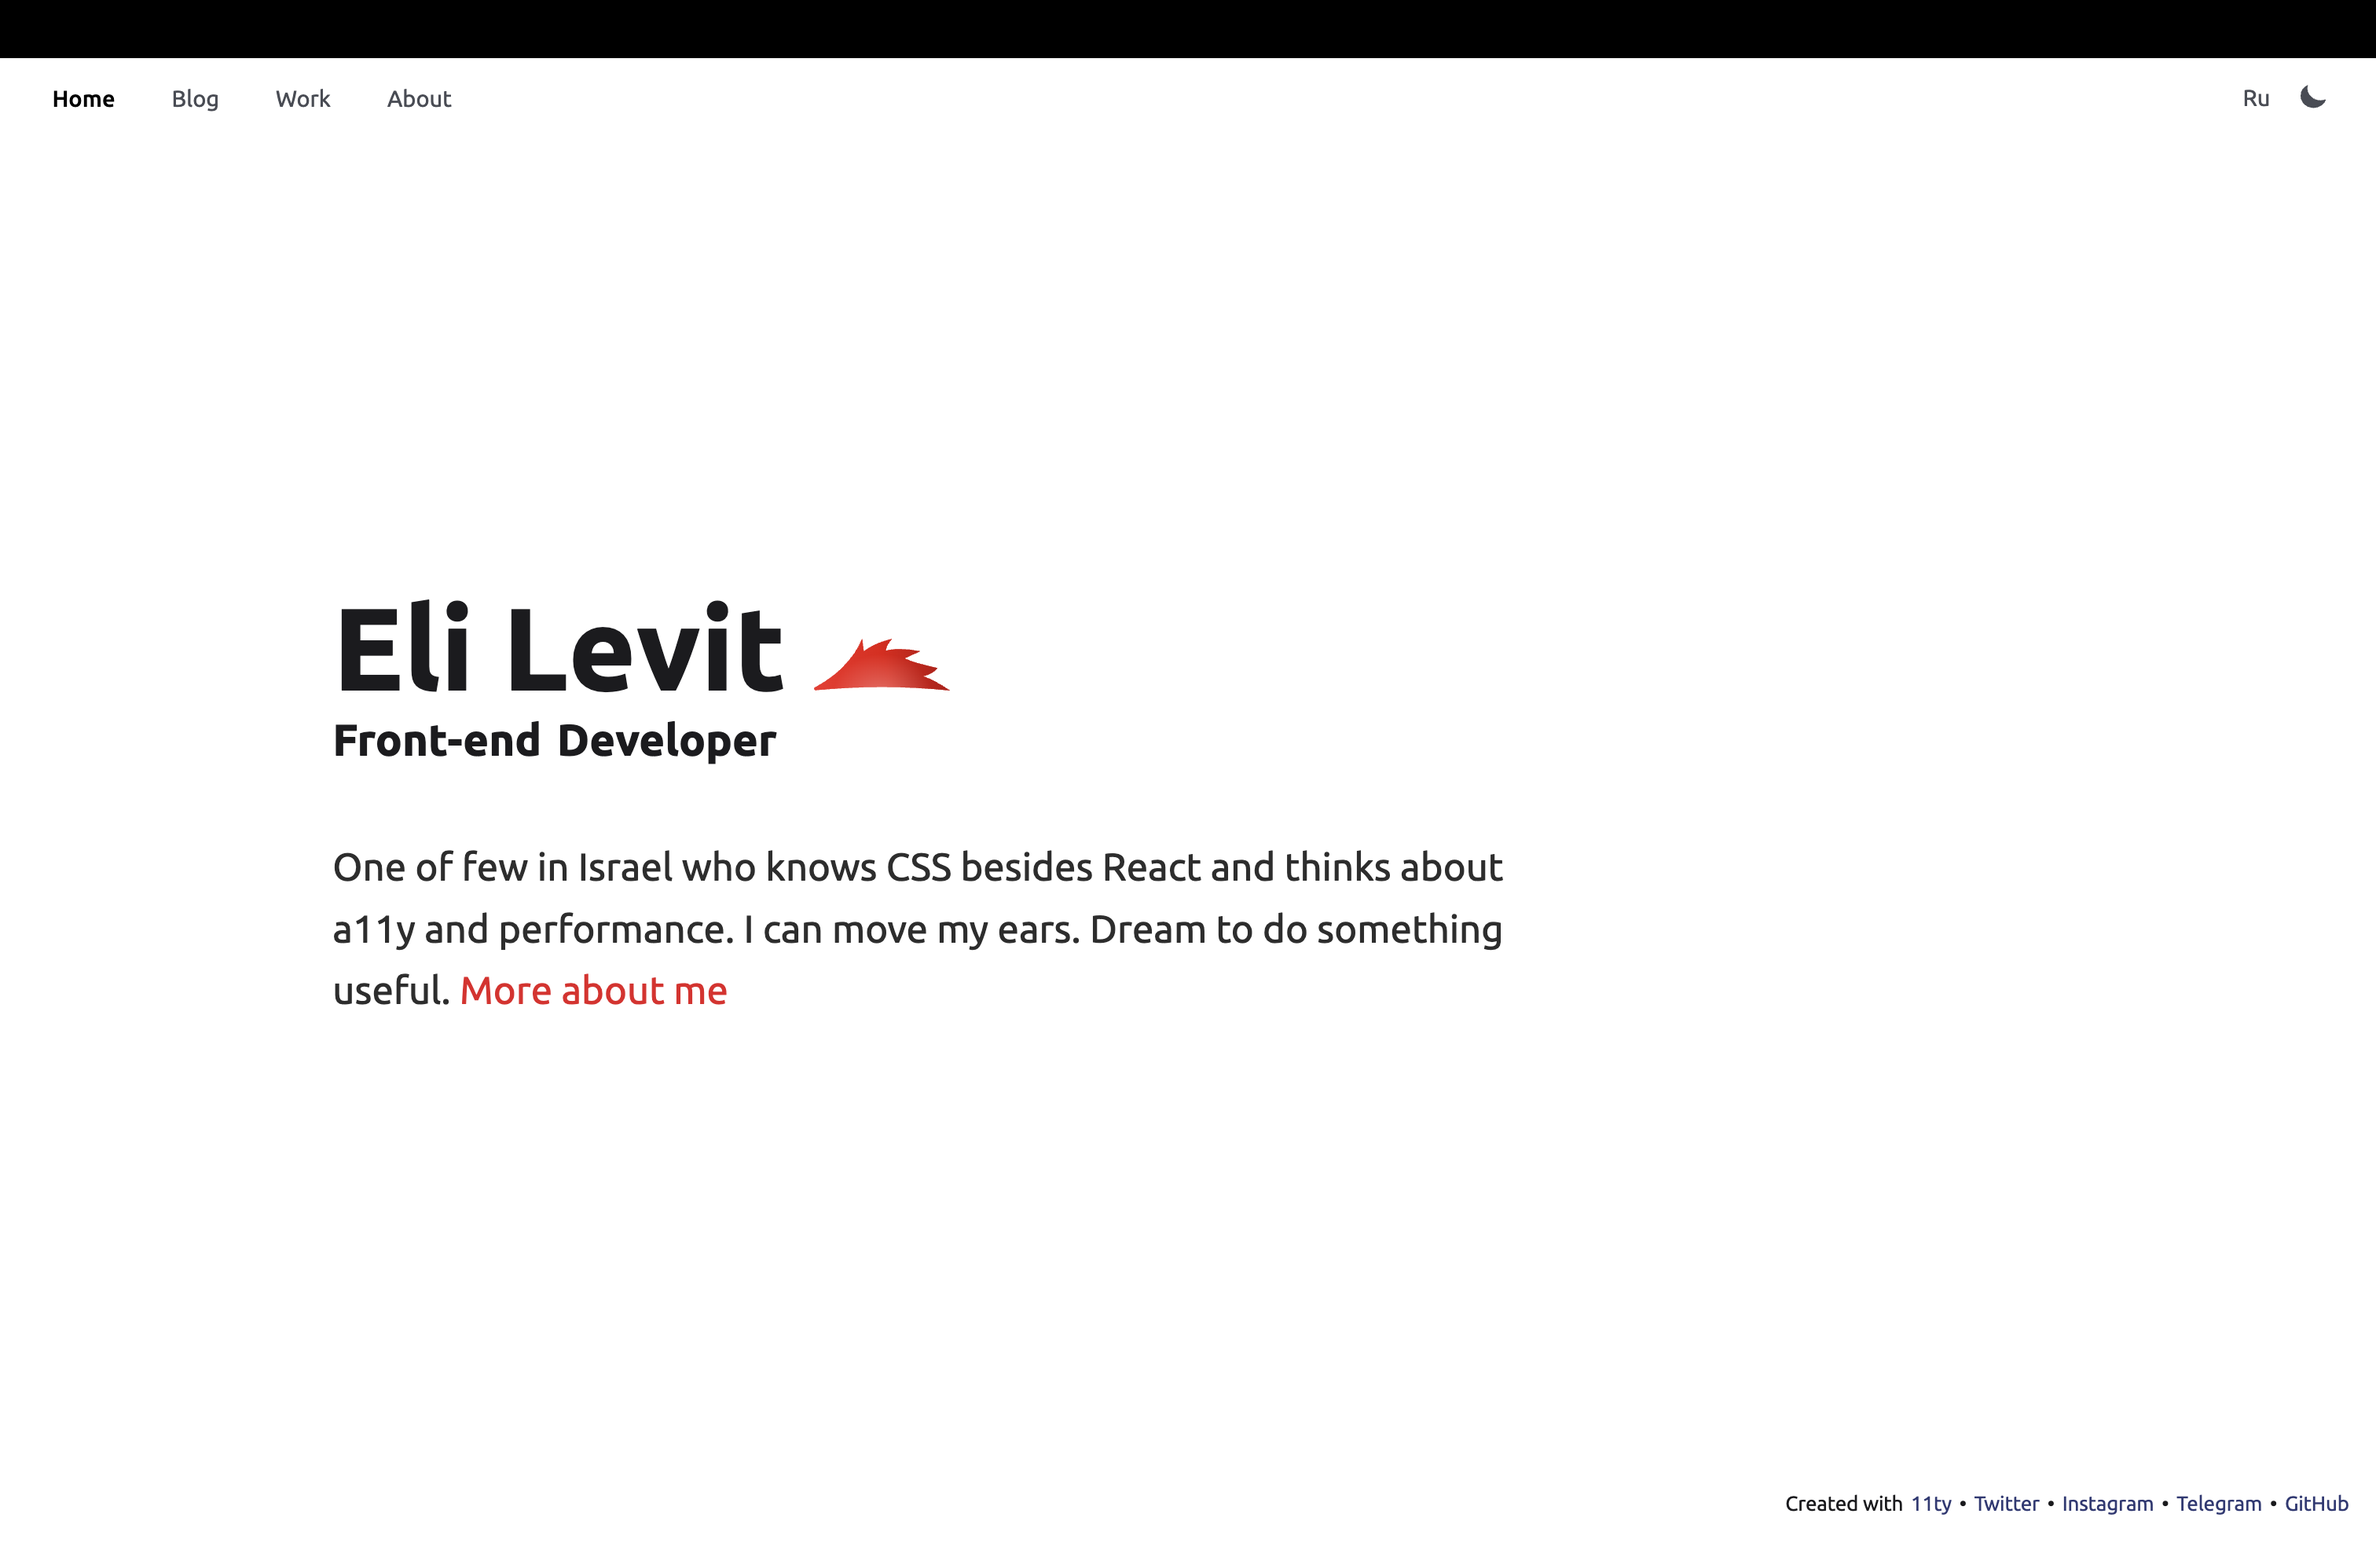
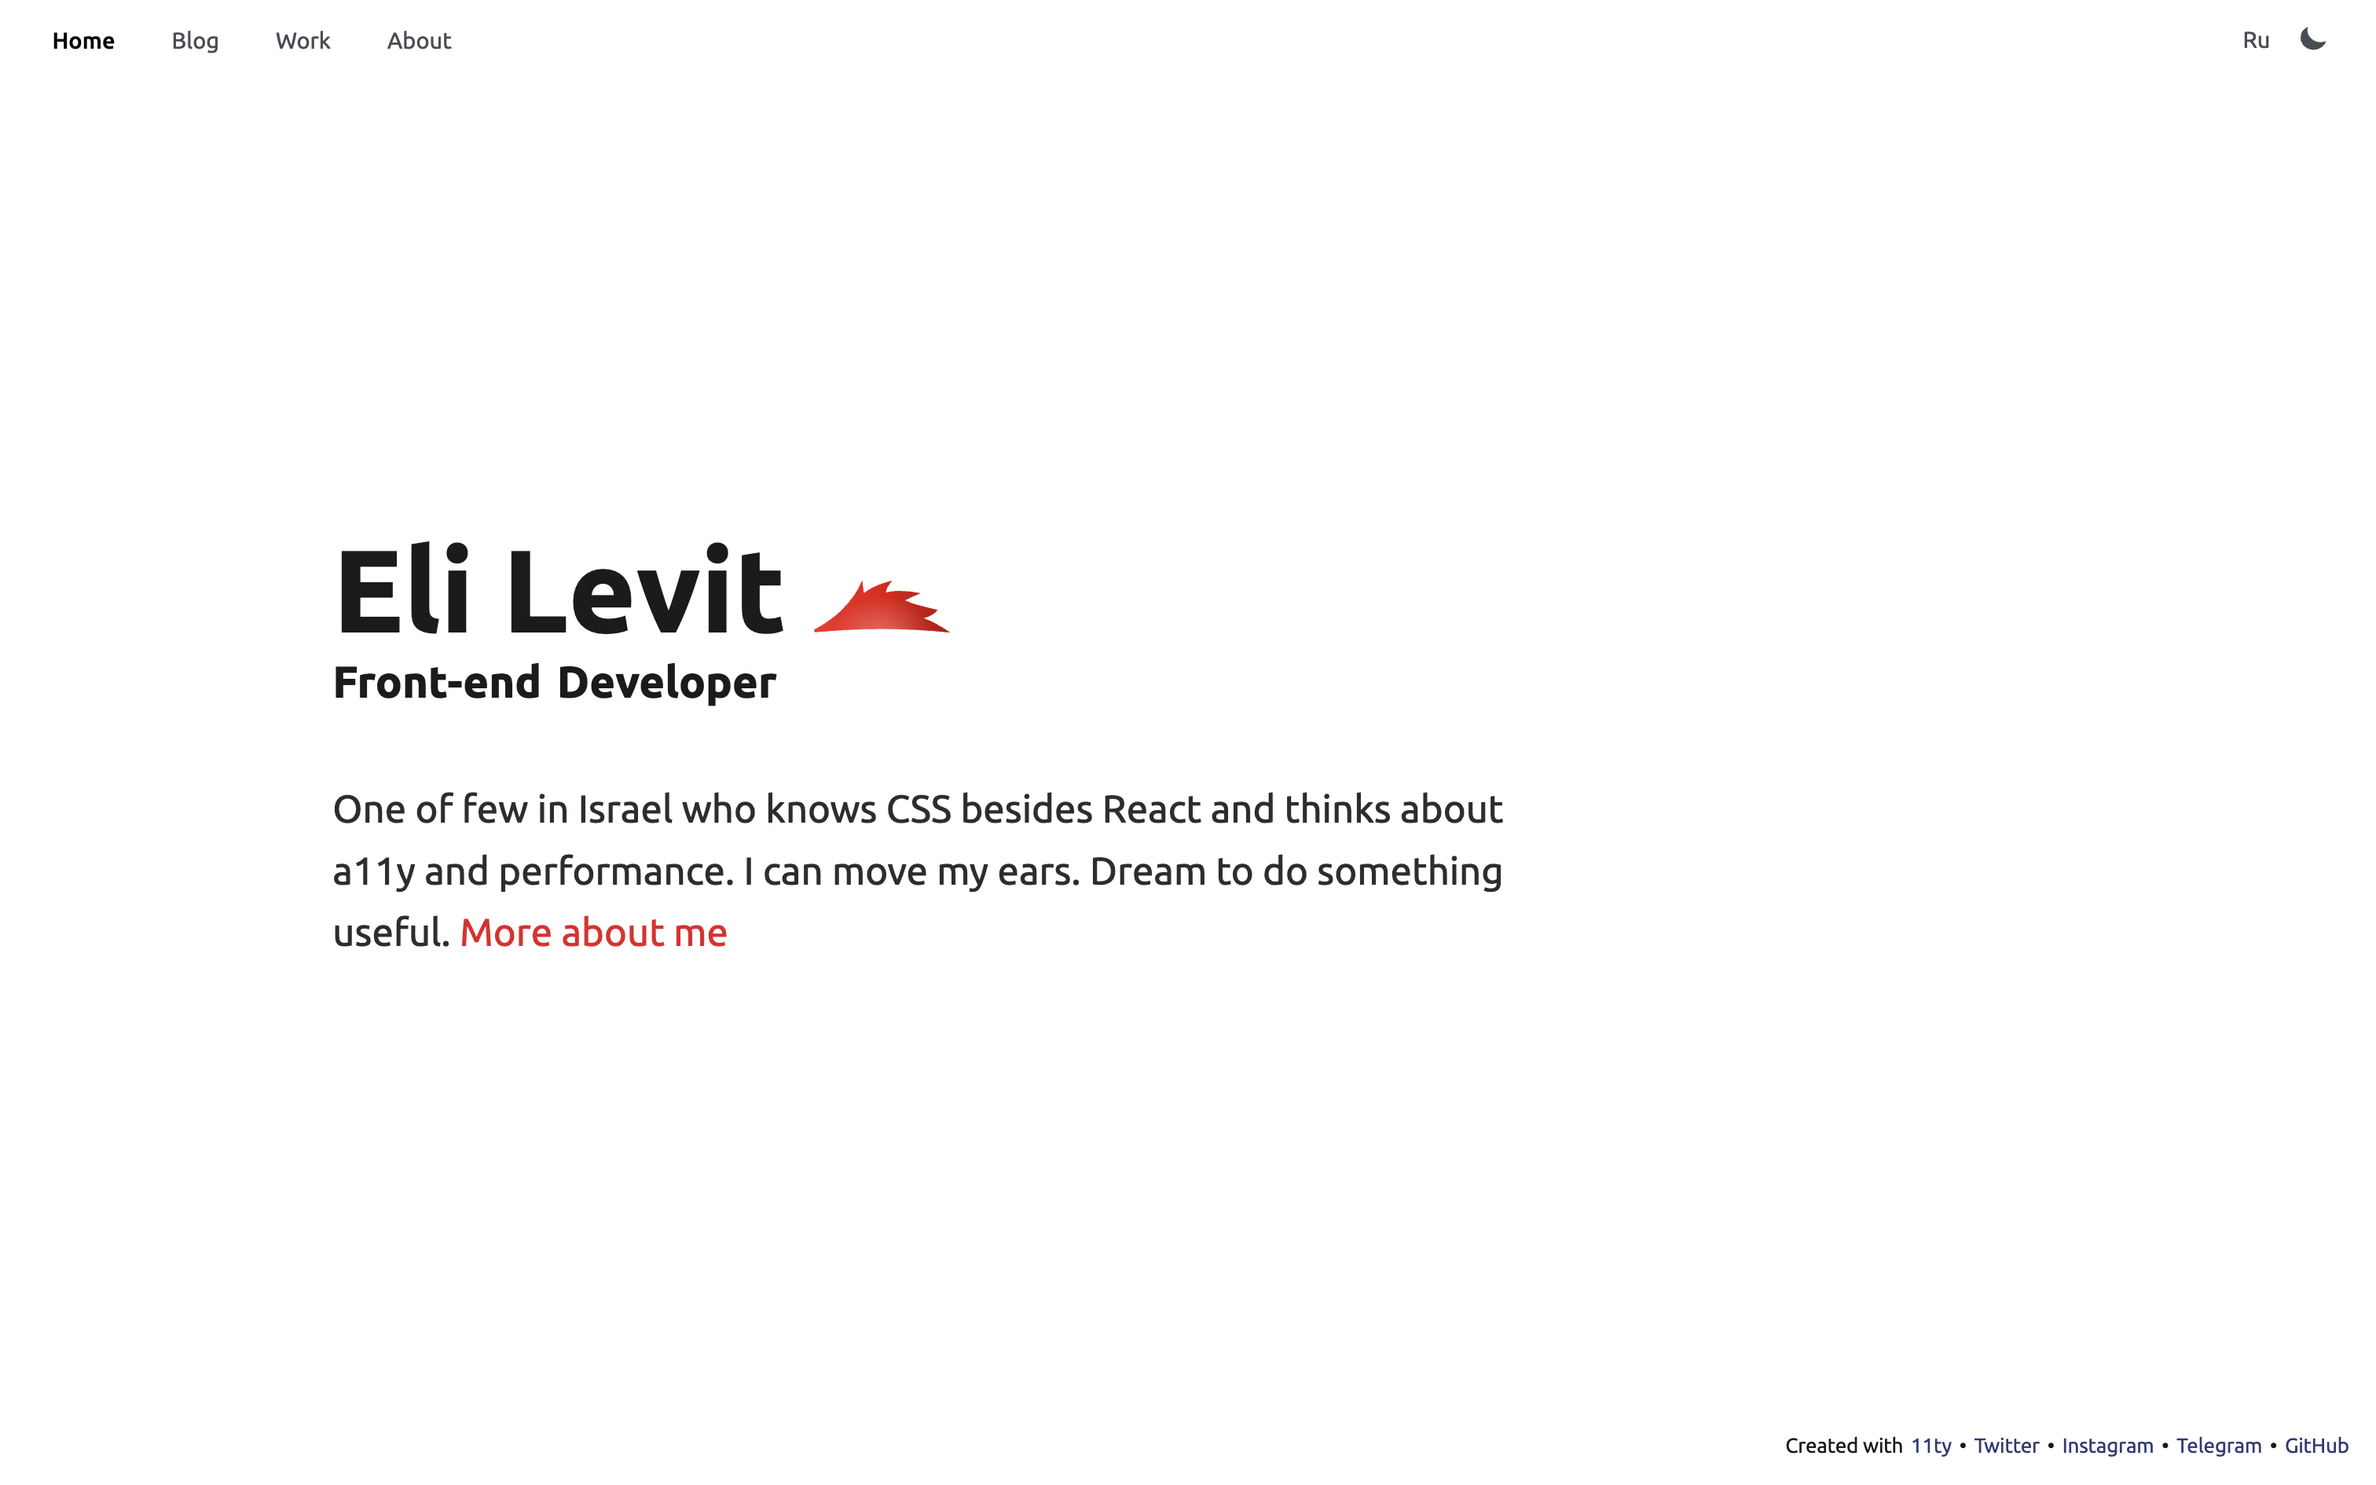
Updates

diff --git a/app/routes/art.tsx b/app/routes/art.tsx
@@ -12,9 +12,14 @@ export default function Art() {
           projects
         </h2>
         <div className="mx-auto grid grid-cols-5 items-center justify-center gap-8 p-12">
-          <div className="col-span-3 row-span-2 bg-red-900 bg-oldSite bg-cover">
-            <span className="grow-1 block bg-primaryText p-3 font-butler text-xl font-light text-white">
+          <div className="col-start-1 col-end-4 row-start-1 row-end-3 flex h-full rounded-sm bg-oldSite bg-cover shadow-xl">
+            <span className="grow-1 mt-auto ml-auto block h-full w-[30%] bg-primaryText p-4 font-butler text-xl font-light text-white shadow-md">
               My old site
+            </span>
+          </div>
+          <div className="col-start-4 col-end-6 row-start-1 row-end-2 flex h-[200px] rounded-sm bg-wallpaper bg-cover shadow-xl">
+            <span className="grow-1 rounded-sm bg-black p-4 text-center font-butler text-xl font-light text-white shadow-md">
+              Wallpapers
             </span>
           </div>
           <div className="min-h-[200px] w-full bg-red-900"></div>
@@ -31,9 +36,7 @@ export default function Art() {
           <div className="min-h-[200px] w-full bg-red-900"></div>
           <div className="min-h-[200px] w-full bg-red-900"></div>
           <div className="min-h-[200px] w-full bg-red-900"></div>
-          <div className="min-h-[200px] w-full bg-red-900"></div>
         </div>
-        min-
       </div>
     </div>
   );

diff --git a/app/components/nav.tsx b/app/components/nav.tsx
@@ -21,7 +21,7 @@ export const Nav = () => {
   };
 
   return (
-    <div className="mb-32 flex h-[70px] flex-row items-center justify-between bg-blueNoise bg-contain py-2 px-24 shadow-sm 2xl:px-44">
+    <div className="mb-24 flex h-[70px] flex-row items-center justify-between bg-blueNoise bg-contain py-2 px-24 shadow-sm 2xl:mb-32 2xl:px-44">
       <nav className="flex h-full flex-row items-center gap-x-2">
         <a href="/" className={genLinkClassName("")}>
           <span className="mr-1 inline-block text-base">🏠</span>Home

diff --git a/tailwind.config.js b/tailwind.config.js
@@ -20,6 +20,7 @@ module.exports = {
         wall: "url(/wall.jpg)",
         nav: "url(/nav.png)",
         oldSite: "url(/old-site.png)",
+        wallpaper: "url(/wallpaper.jpg)",
       },
       borderWidth: {
         30: "30px",

diff --git a/app/styles/main.css b/app/styles/main.css
@@ -6,6 +6,6 @@
 
 @layer components {
   .content-container {
-    @apply px-28 pb-28 2xl:px-44 mx-auto max-w-[2000px] mx-auto;
+    @apply px-20 2xl:px-28 pb-28 2xl:px-44 mx-auto max-w-[2000px] mx-auto;
   }
 }
